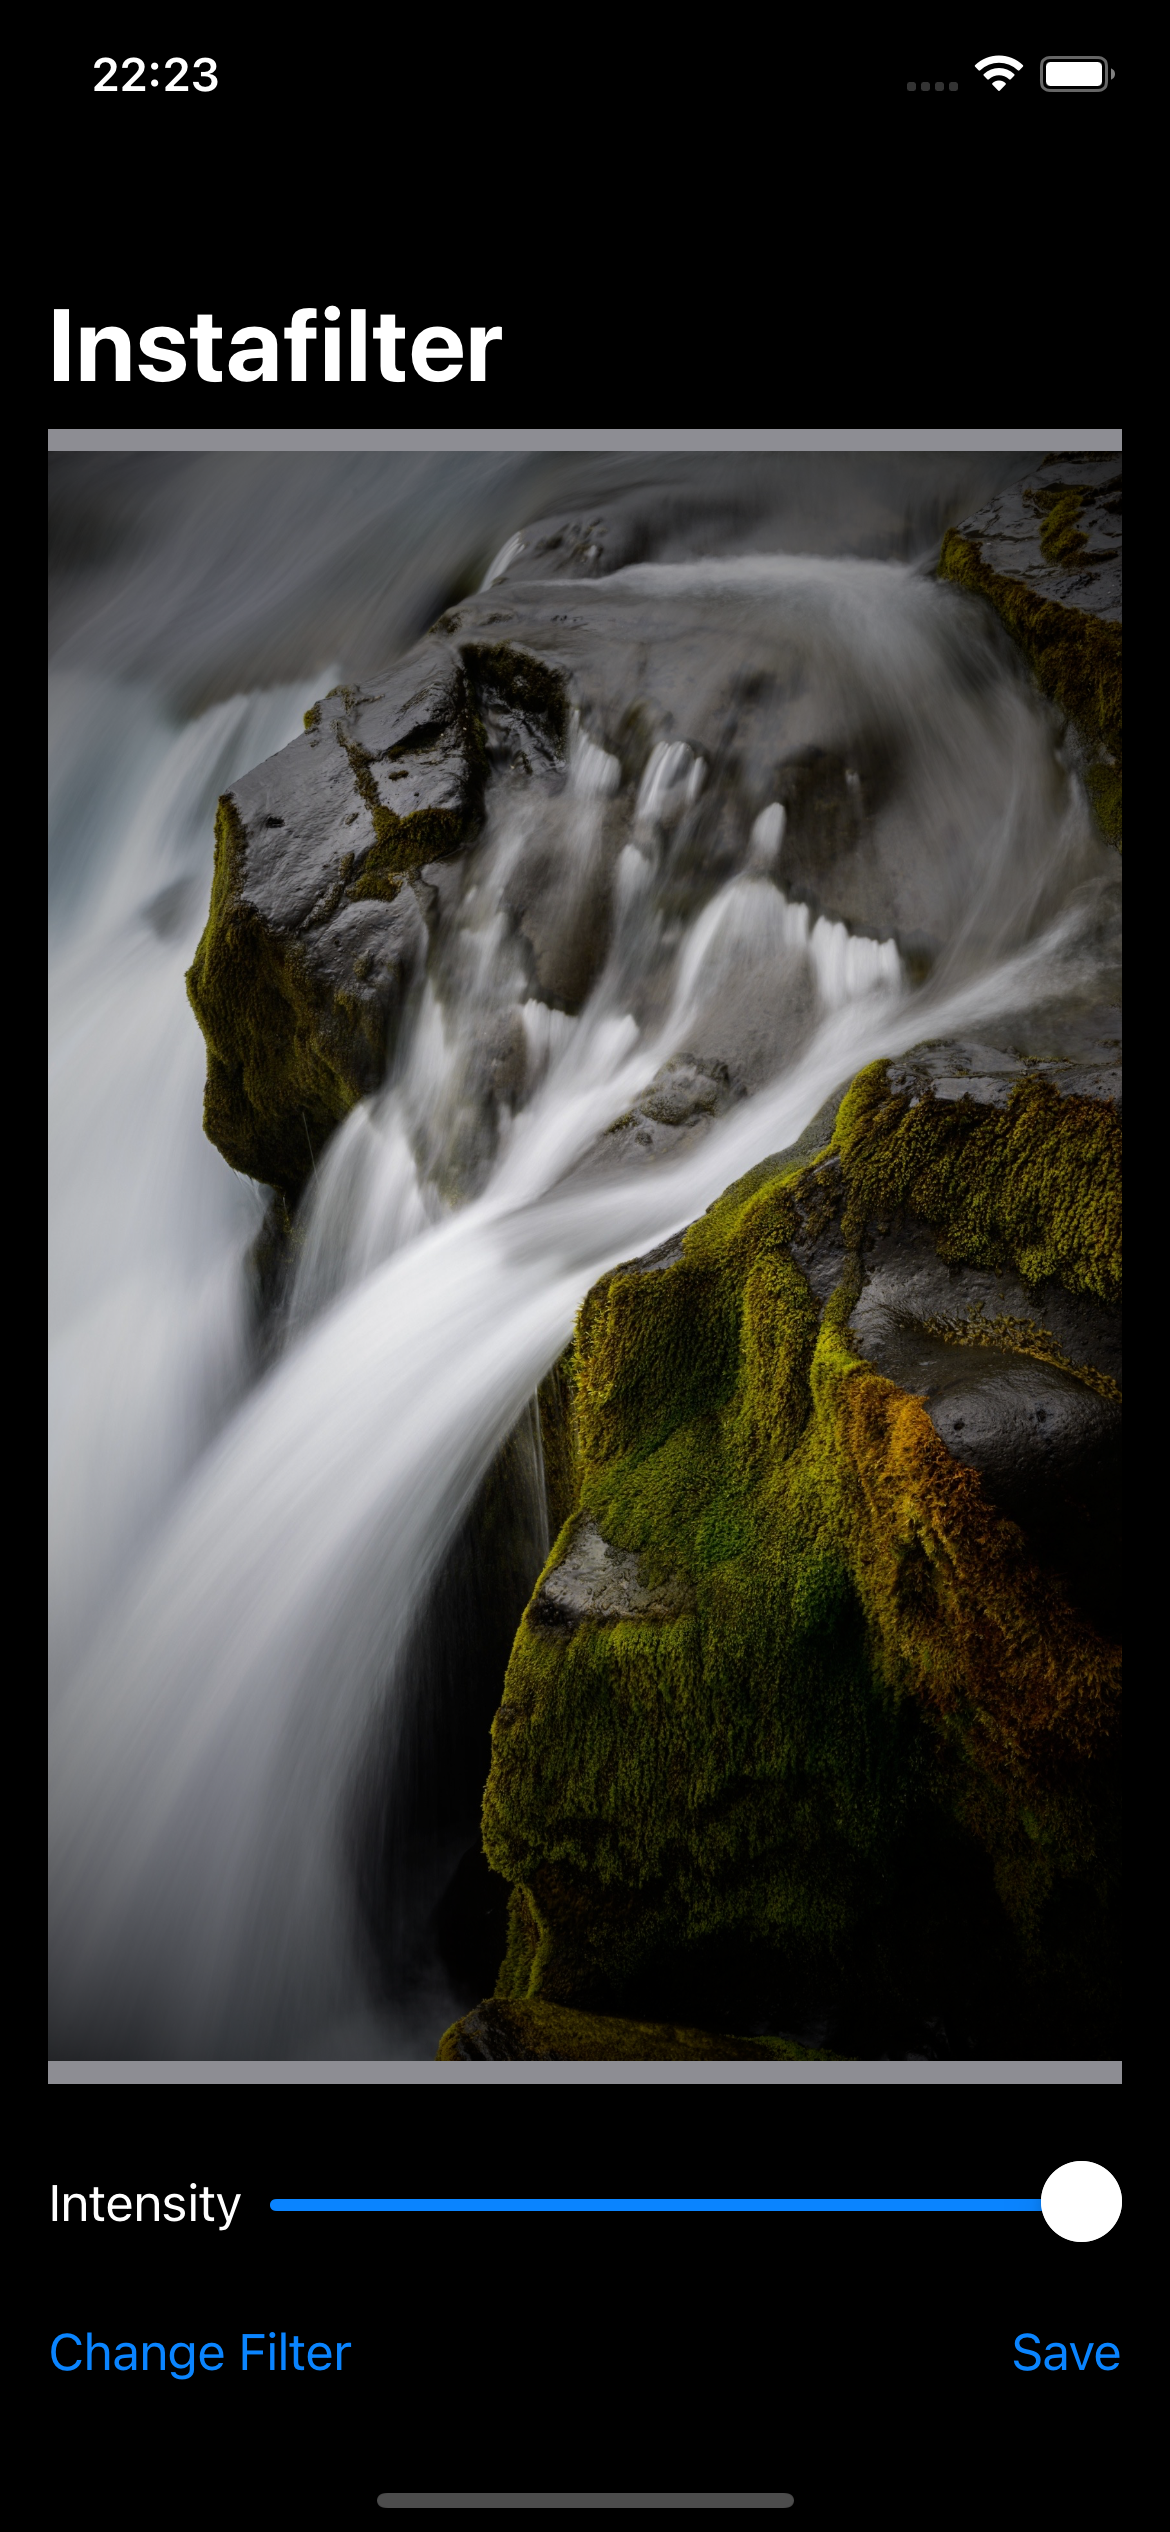
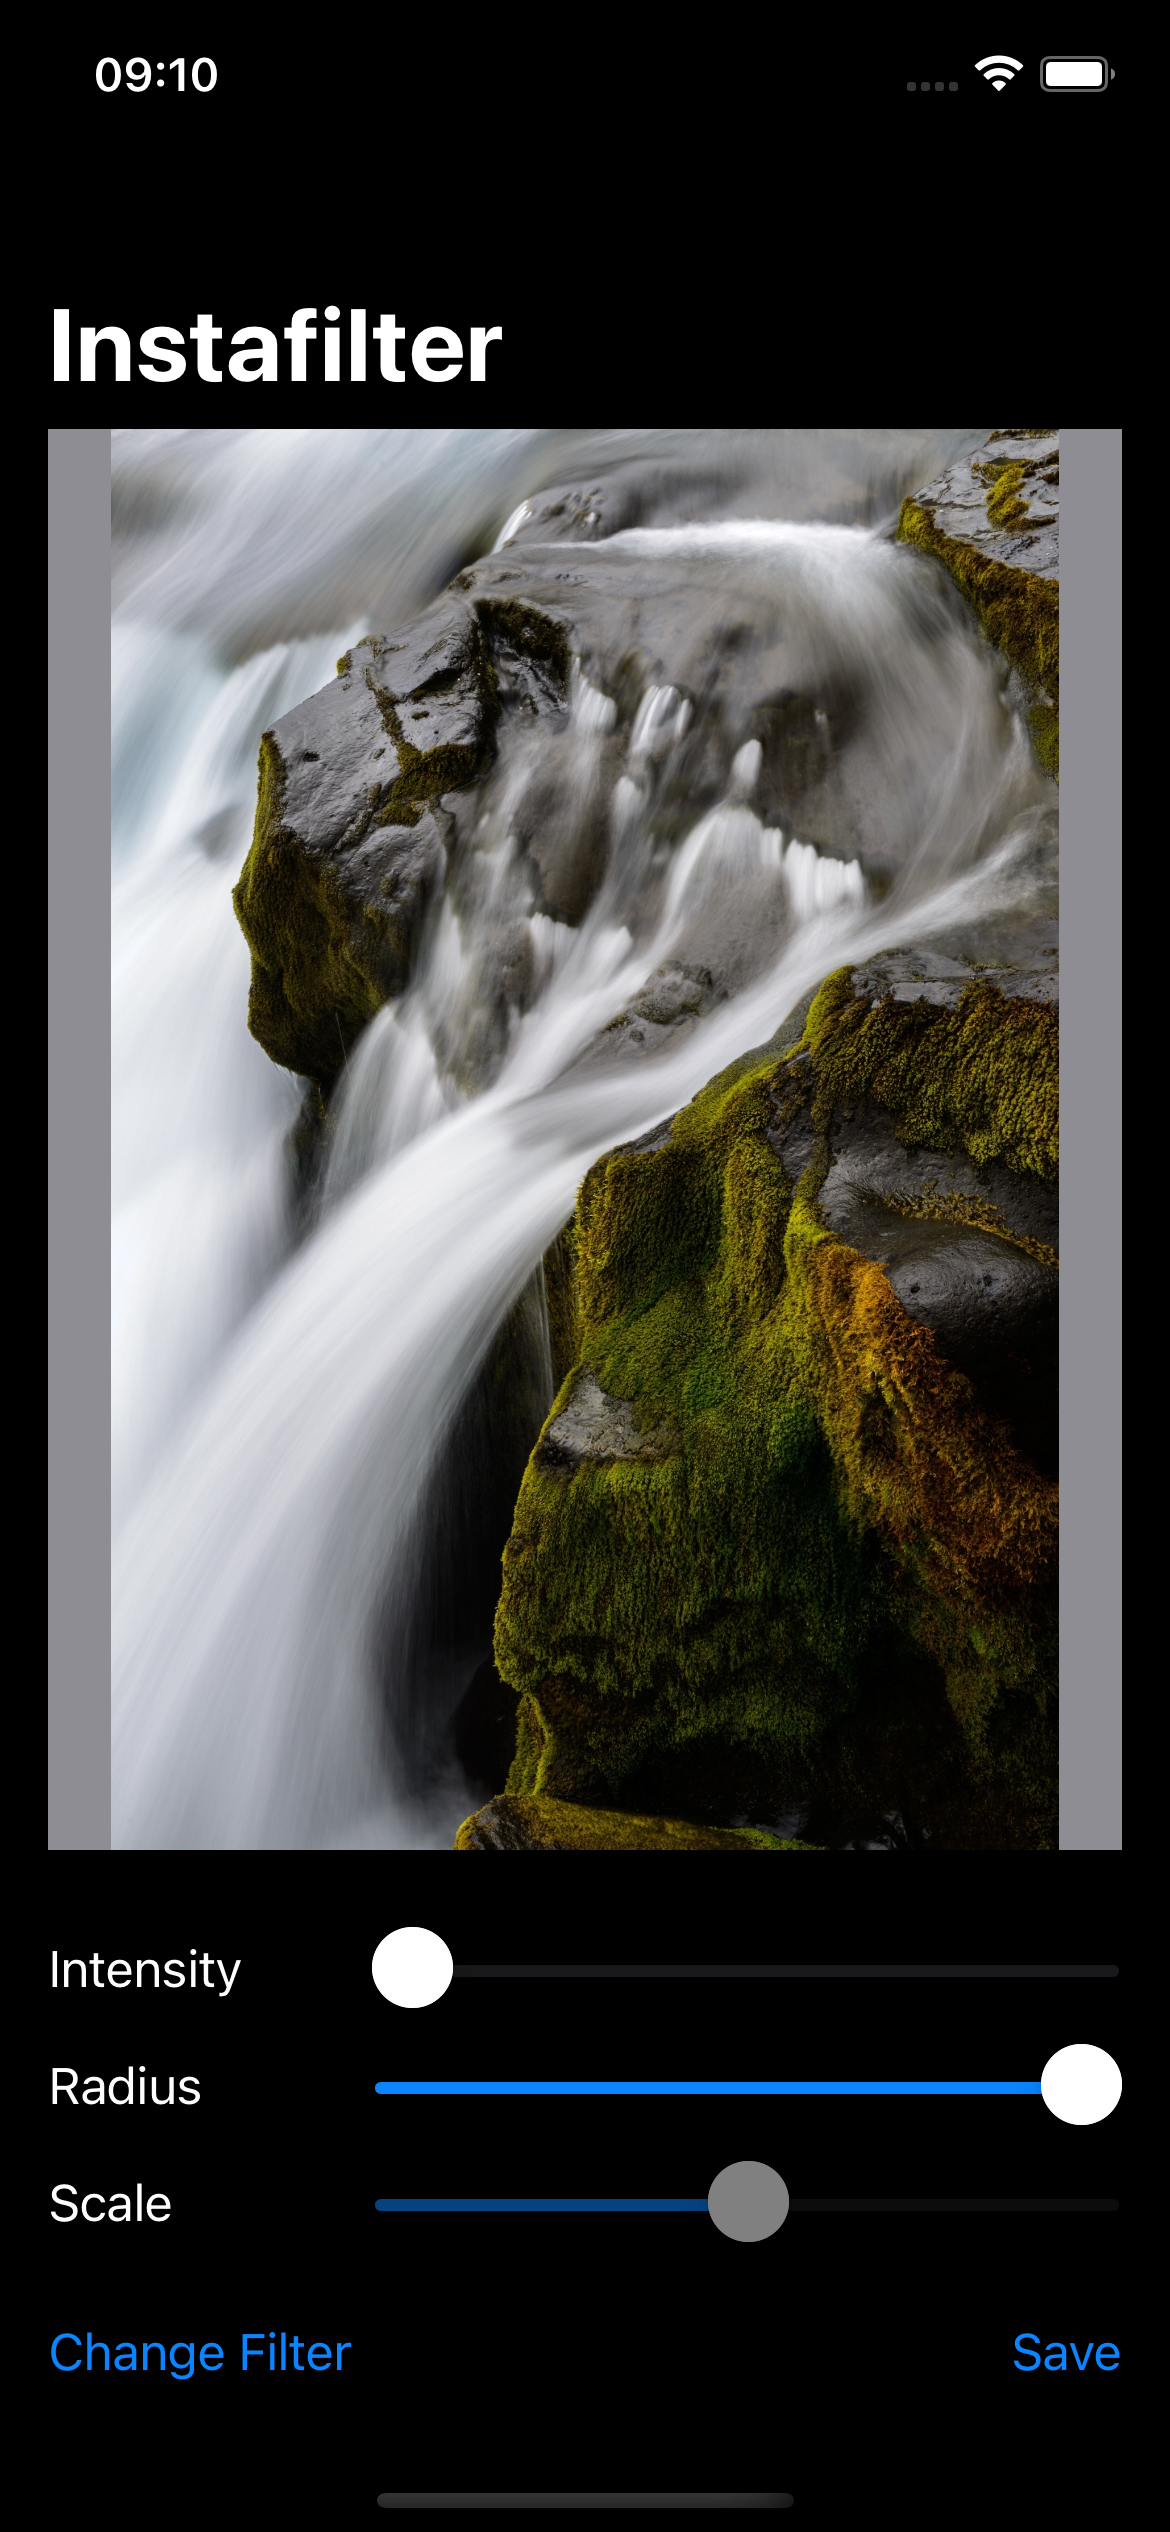
Project 13 Challenges

diff --git a/Project 13 - Instafilter/Instafilter/ContentView.swift b/Project 13 - Instafilter/Instafilter/ContentView.swift
@@ -9,30 +9,35 @@ import CoreImage
 import CoreImage.CIFilterBuiltins
 import SwiftUI
 
-struct ContentView: View {
+struct ContentView: View {    
     @State private var image: Image?
-    @State private var filterIntensity = 0.5
-
+    @State private var filterIntensity = 0.5 // 0-1
+    @State private var filterRadius = 100.0 // 0-200
+    @State private var filterScale = 5.0 //0-10
+    @State private var isIntesityAvailable = false
+    @State private var isRadiusAvailable = false
+    @State private var isScaleAvailable = false
+    
     @State private var showingImagePicker = false
     @State private var inputImage: UIImage?
     @State private var processedImage: UIImage?
-
+    
     @State private var currentFilter: CIFilter = CIFilter.sepiaTone()
     let context = CIContext()
-
+    
     @State private var showingFilterSheet = false
-
+    
     var body: some View {
         NavigationView {
             VStack {
                 ZStack {
                     Rectangle()
                         .fill(.secondary)
-
+                    
                     Text("Tap to select a picture")
                         .foregroundColor(.white)
                         .font(.headline)
-
+                    
                     image?
                         .resizable()
                         .scaledToFit()
@@ -40,22 +45,43 @@ struct ContentView: View {
                 .onTapGesture {
                     showingImagePicker = true
                 }
-
-                HStack {
+                
+                HStack{
                     Text("Intensity")
+                        .frame(minWidth: 100, maxWidth: 100, minHeight: 20, maxHeight: 20, alignment: .leading)
                     Slider(value: $filterIntensity)
+                        .disabled(isIntesityAvailable == false)
+                        .id(isIntesityAvailable)
                         .onChange(of: filterIntensity) { _ in applyProcessing() }
+                }.padding(.top)
+                
+                HStack{
+                    Text("Radius")
+                        .frame(minWidth: 100, maxWidth: 100, minHeight: 20, maxHeight: 20, alignment: .leading)
+                    Slider(value: $filterRadius, in: 0...200)
+                        .disabled(isRadiusAvailable == false)
+                        .id(isRadiusAvailable)
+                        .onChange(of: filterRadius) { _ in applyProcessing() }
+                    
                 }
-                .padding(.vertical)
-
+                HStack{
+                    Text("Scale")
+                        .frame(minWidth: 100, maxWidth: 100, minHeight: 20, maxHeight: 20, alignment: .leading)
+                    Slider(value: $filterScale,in:  0...10 )
+                        .disabled(isScaleAvailable == false)
+                        .id(isScaleAvailable)
+                        .onChange(of: filterScale) { _ in applyProcessing() }
+                }.padding(.bottom)
+                
                 HStack {
                     Button("Change Filter") {
                         showingFilterSheet = true
                     }
-
+                    
                     Spacer()
-
+                    
                     Button("Save", action: save)
+                        .disabled(image == nil)
                 }
             }
             .padding([.horizontal, .bottom])
@@ -65,67 +91,84 @@ struct ContentView: View {
                 ImagePicker(image: $inputImage)
             }
             .confirmationDialog("Select a filter", isPresented: $showingFilterSheet) {
-                Button("Crystallize") { setFilter(CIFilter.crystallize()) }
-                Button("Edges") { setFilter(CIFilter.edges()) }
-                Button("Gaussian Blur") { setFilter(CIFilter.gaussianBlur()) }
-                Button("Pixellate") { setFilter(CIFilter.pixellate()) }
-                Button("Sepia Tone") { setFilter(CIFilter.sepiaTone()) }
-                Button("Unsharp Mask") { setFilter(CIFilter.unsharpMask()) }
-                Button("Vignette") { setFilter(CIFilter.vignette()) }
+                Group{
+                    Button("Crystallize") { setFilter(CIFilter.crystallize()) }
+                    Button("Edges") { setFilter(CIFilter.edges()) }
+                    Button("Gaussian Blur") { setFilter(CIFilter.gaussianBlur()) }
+                    Button("Pixellate") { setFilter(CIFilter.pixellate()) }
+                    Button("Sepia Tone") { setFilter(CIFilter.sepiaTone()) }
+                    Button("Unsharp Mask") { setFilter(CIFilter.unsharpMask()) }
+                    Button("Vignette") { setFilter(CIFilter.vignette()) }
+                    Button("Comic") { setFilter(CIFilter.comicEffect()) }
+                    Button("Thermal") { setFilter(CIFilter.thermal()) }
+                    Button("Zoom Blur") { setFilter(CIFilter.zoomBlur()) }
+                }
                 Button("Cancel", role: .cancel) { }
             }
         }
     }
-
+    
     func loadImage() {
         guard let inputImage = inputImage else { return }
-
-
+        
+        
         let beginImage = CIImage(image: inputImage)
         currentFilter.setValue(beginImage, forKey: kCIInputImageKey)
+        
         applyProcessing()
     }
-
+    
     func save() {
         guard let processedImage = processedImage else { return }
-
+        
         let imageSaver = ImageSaver()
-
+        
         imageSaver.successHandler = {
             print("Success!")
         }
-
+        
         imageSaver.errorHandler = {
             print("Oops! \($0.localizedDescription)")
         }
-
+        
         imageSaver.writeToPhotoAlbum(image: processedImage)
     }
-
+    
     func applyProcessing() {
         let inputKeys = currentFilter.inputKeys
-
-        if inputKeys.contains(kCIInputIntensityKey) { currentFilter.setValue(filterIntensity, forKey: kCIInputIntensityKey) }
-        if inputKeys.contains(kCIInputRadiusKey) { currentFilter.setValue(filterIntensity * 200, forKey: kCIInputRadiusKey) }
-        if inputKeys.contains(kCIInputScaleKey) { currentFilter.setValue(filterIntensity * 10, forKey: kCIInputScaleKey) }
-
+        
+        if inputKeys.contains(kCIInputIntensityKey) {
+            currentFilter.setValue(filterIntensity, forKey: kCIInputIntensityKey)
+            isIntesityAvailable = true
+        }
+        if inputKeys.contains(kCIInputRadiusKey) {
+            currentFilter.setValue(filterRadius, forKey: kCIInputRadiusKey)
+            isRadiusAvailable = true
+        }
+        if inputKeys.contains(kCIInputScaleKey) {
+            currentFilter.setValue(filterScale, forKey: kCIInputScaleKey)
+            isScaleAvailable = true
+        }
+        
         guard let outputImage = currentFilter.outputImage else { return }
-
+        
         if let cgimg = context.createCGImage(outputImage, from: outputImage.extent) {
             let uiImage = UIImage(cgImage: cgimg)
             image = Image(uiImage: uiImage)
             processedImage = uiImage
         }
     }
-
+    
     func setFilter(_ filter: CIFilter) {
+        //defaults
+        filterIntensity = 0.5
+        filterRadius = 100.0
+        filterScale = 5.0
+        isScaleAvailable = false
+        isRadiusAvailable = false
+        isScaleAvailable = false
+        
         currentFilter = filter
         loadImage()
-    }
-}
-
-struct ContentView_Previews: PreviewProvider {
-    static var previews: some View {
-        ContentView()
     }
 }

diff --git a/Project 13 - Instafilter/README.md b/Project 13 - Instafilter/README.md
@@ -5,18 +5,19 @@
 An app that lets the user import photos from their library, then modify them using various image effects.
 
 ### Challanges
-- [ ]  Try making the Save button disabled if there is no image in the image view.
-- [ ]  Experiment with having more than one slider, to control each of the input keys you care about. For example, you might have one for radius and one for intensity.
-- [ ]  Explore the range of available Core Image filters, and add any three of your choosing to the app.
+- [x]  Try making the Save button disabled if there is no image in the image view.
+- [x]  Experiment with having more than one slider, to control each of the input keys you care about. For example, you might have one for radius and one for intensity.
+- [x]  Explore the range of available Core Image filters, and add any three of your choosing to the app.
 
 ### Dark UI Screenshots
-<img src="Screenshots/dark1.png" width="200" /> <img src="Screenshots/dark2.png" width="200" /> <img src="Screenshots/dark3.png" width="200" /> <img src="Screenshots/dark4.png" width="200" /> <img src="Screenshots/dark5.png" width="200" /> <img src="Screenshots/dark6.png" width="200" /> <img src="Screenshots/dark7.png" width="200" />
+<img src="Screenshots/dark1.png" width="200" /> <img src="Screenshots/dark2.png" width="200" /> <img src="Screenshots/dark3.png" width="200" /> <img src="Screenshots/dark4.png" width="200" /> <img src="Screenshots/dark5.png" width="200" /> <img src="Screenshots/dark6.png" width="200" /> <img src="Screenshots/dark7.png" width="200" /> <img src="Screenshots/dark8.png" width="200" />
 
 ### Light UI Screenshots
-<img src="Screenshots/light1.png" width="200" /> <img src="Screenshots/light2.png" width="200" /> <img src="Screenshots/light3.png" width="200" /> <img src="Screenshots/light4.png" width="200" /> <img src="Screenshots/light5.png" width="200" /> <img src="Screenshots/light6.png" width="200" /> <img src="Screenshots/light7.png" width="200" /> 
+<img src="Screenshots/light1.png" width="200" /> <img src="Screenshots/light2.png" width="200" /> <img src="Screenshots/light3.png" width="200" /> <img src="Screenshots/light4.png" width="200" /> <img src="Screenshots/light5.png" width="200" /> <img src="Screenshots/light6.png" width="200" /> <img src="Screenshots/light7.png" width="200" /> <img src="Screenshots/light8.png" width="200" /> 
 
 Bu projenin ilgili sayfalarına aşağıdaki bağlantılardan ulaşabilirsin 👇
 * [11.02.2022 🛹](https://canbi.me/11-02-2022-bb406065ca0a46e29ecf1f77c9866245)
+* [12.02.2022 🎈](https://canbi.me/12-02-2022-d786d4c7cc9a4e5588e046c49def0fa5)
 
 **SwiftUI öğrenme maceramın tamamına göz atmak istersen görsele tıklayabilirsin**👇
 [![name2](../Images/gungunswiftui.jpg)](https://canbi.me/gun-gun-swiftui-ogrenme-maceram)
